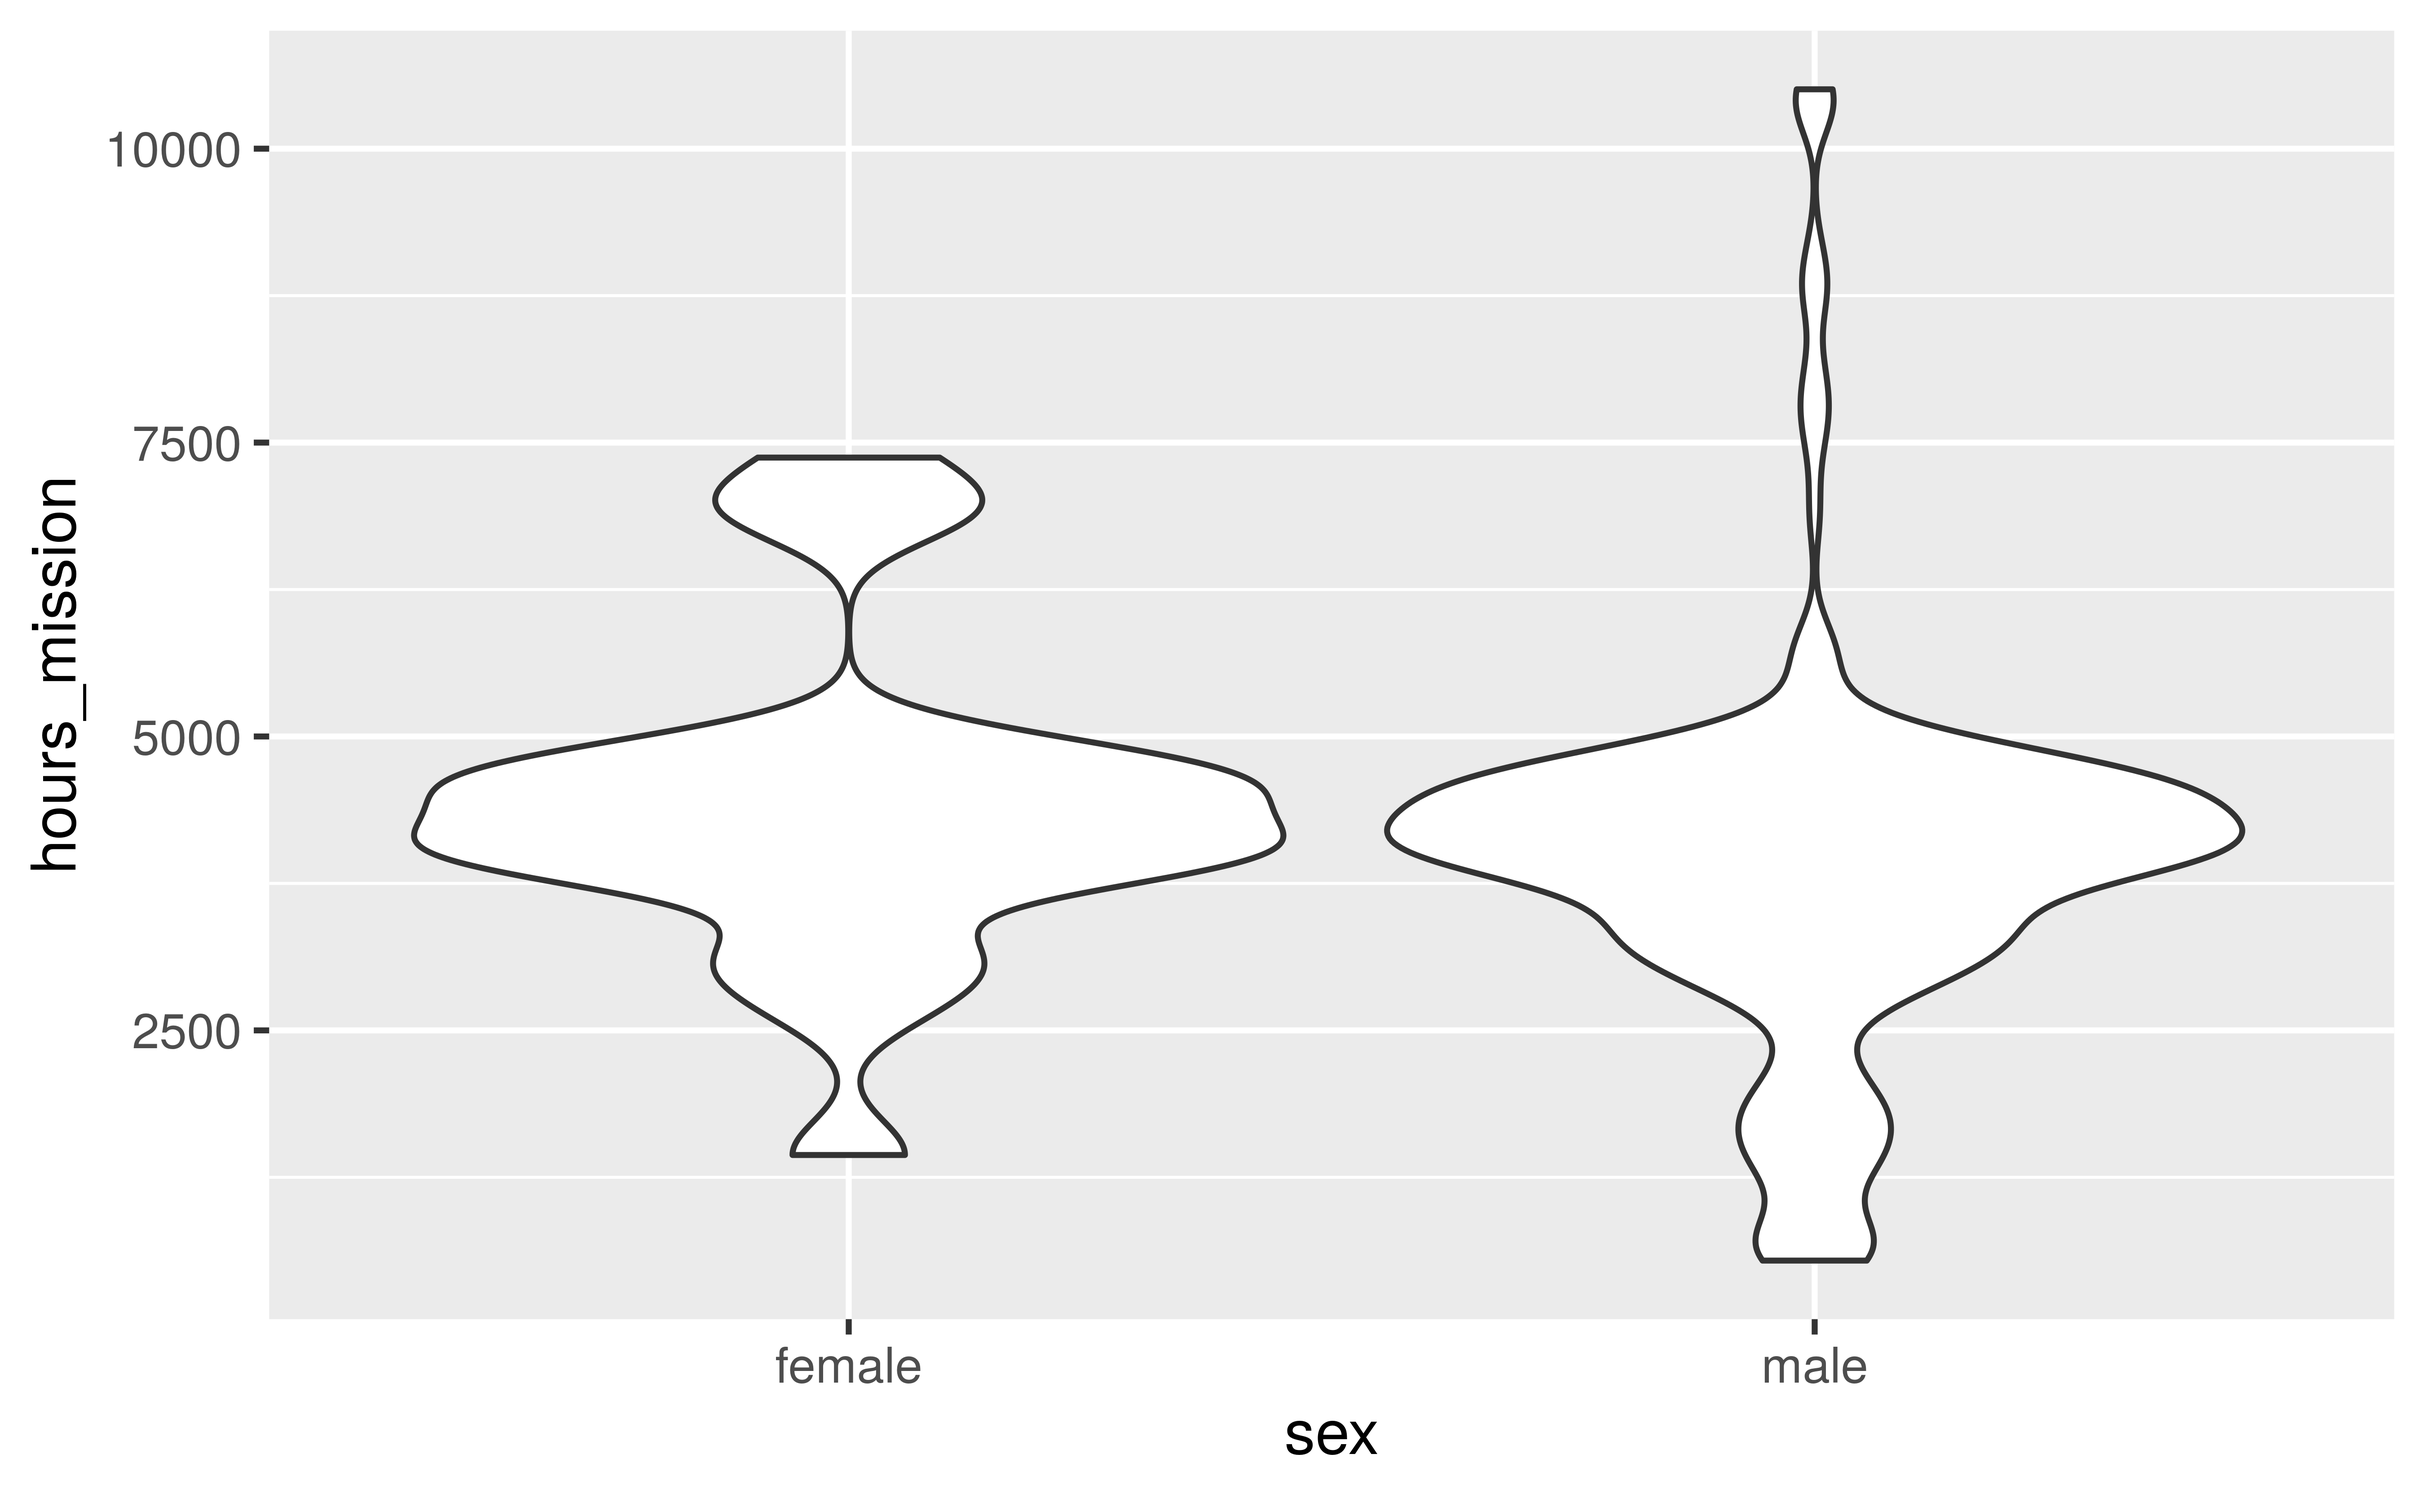
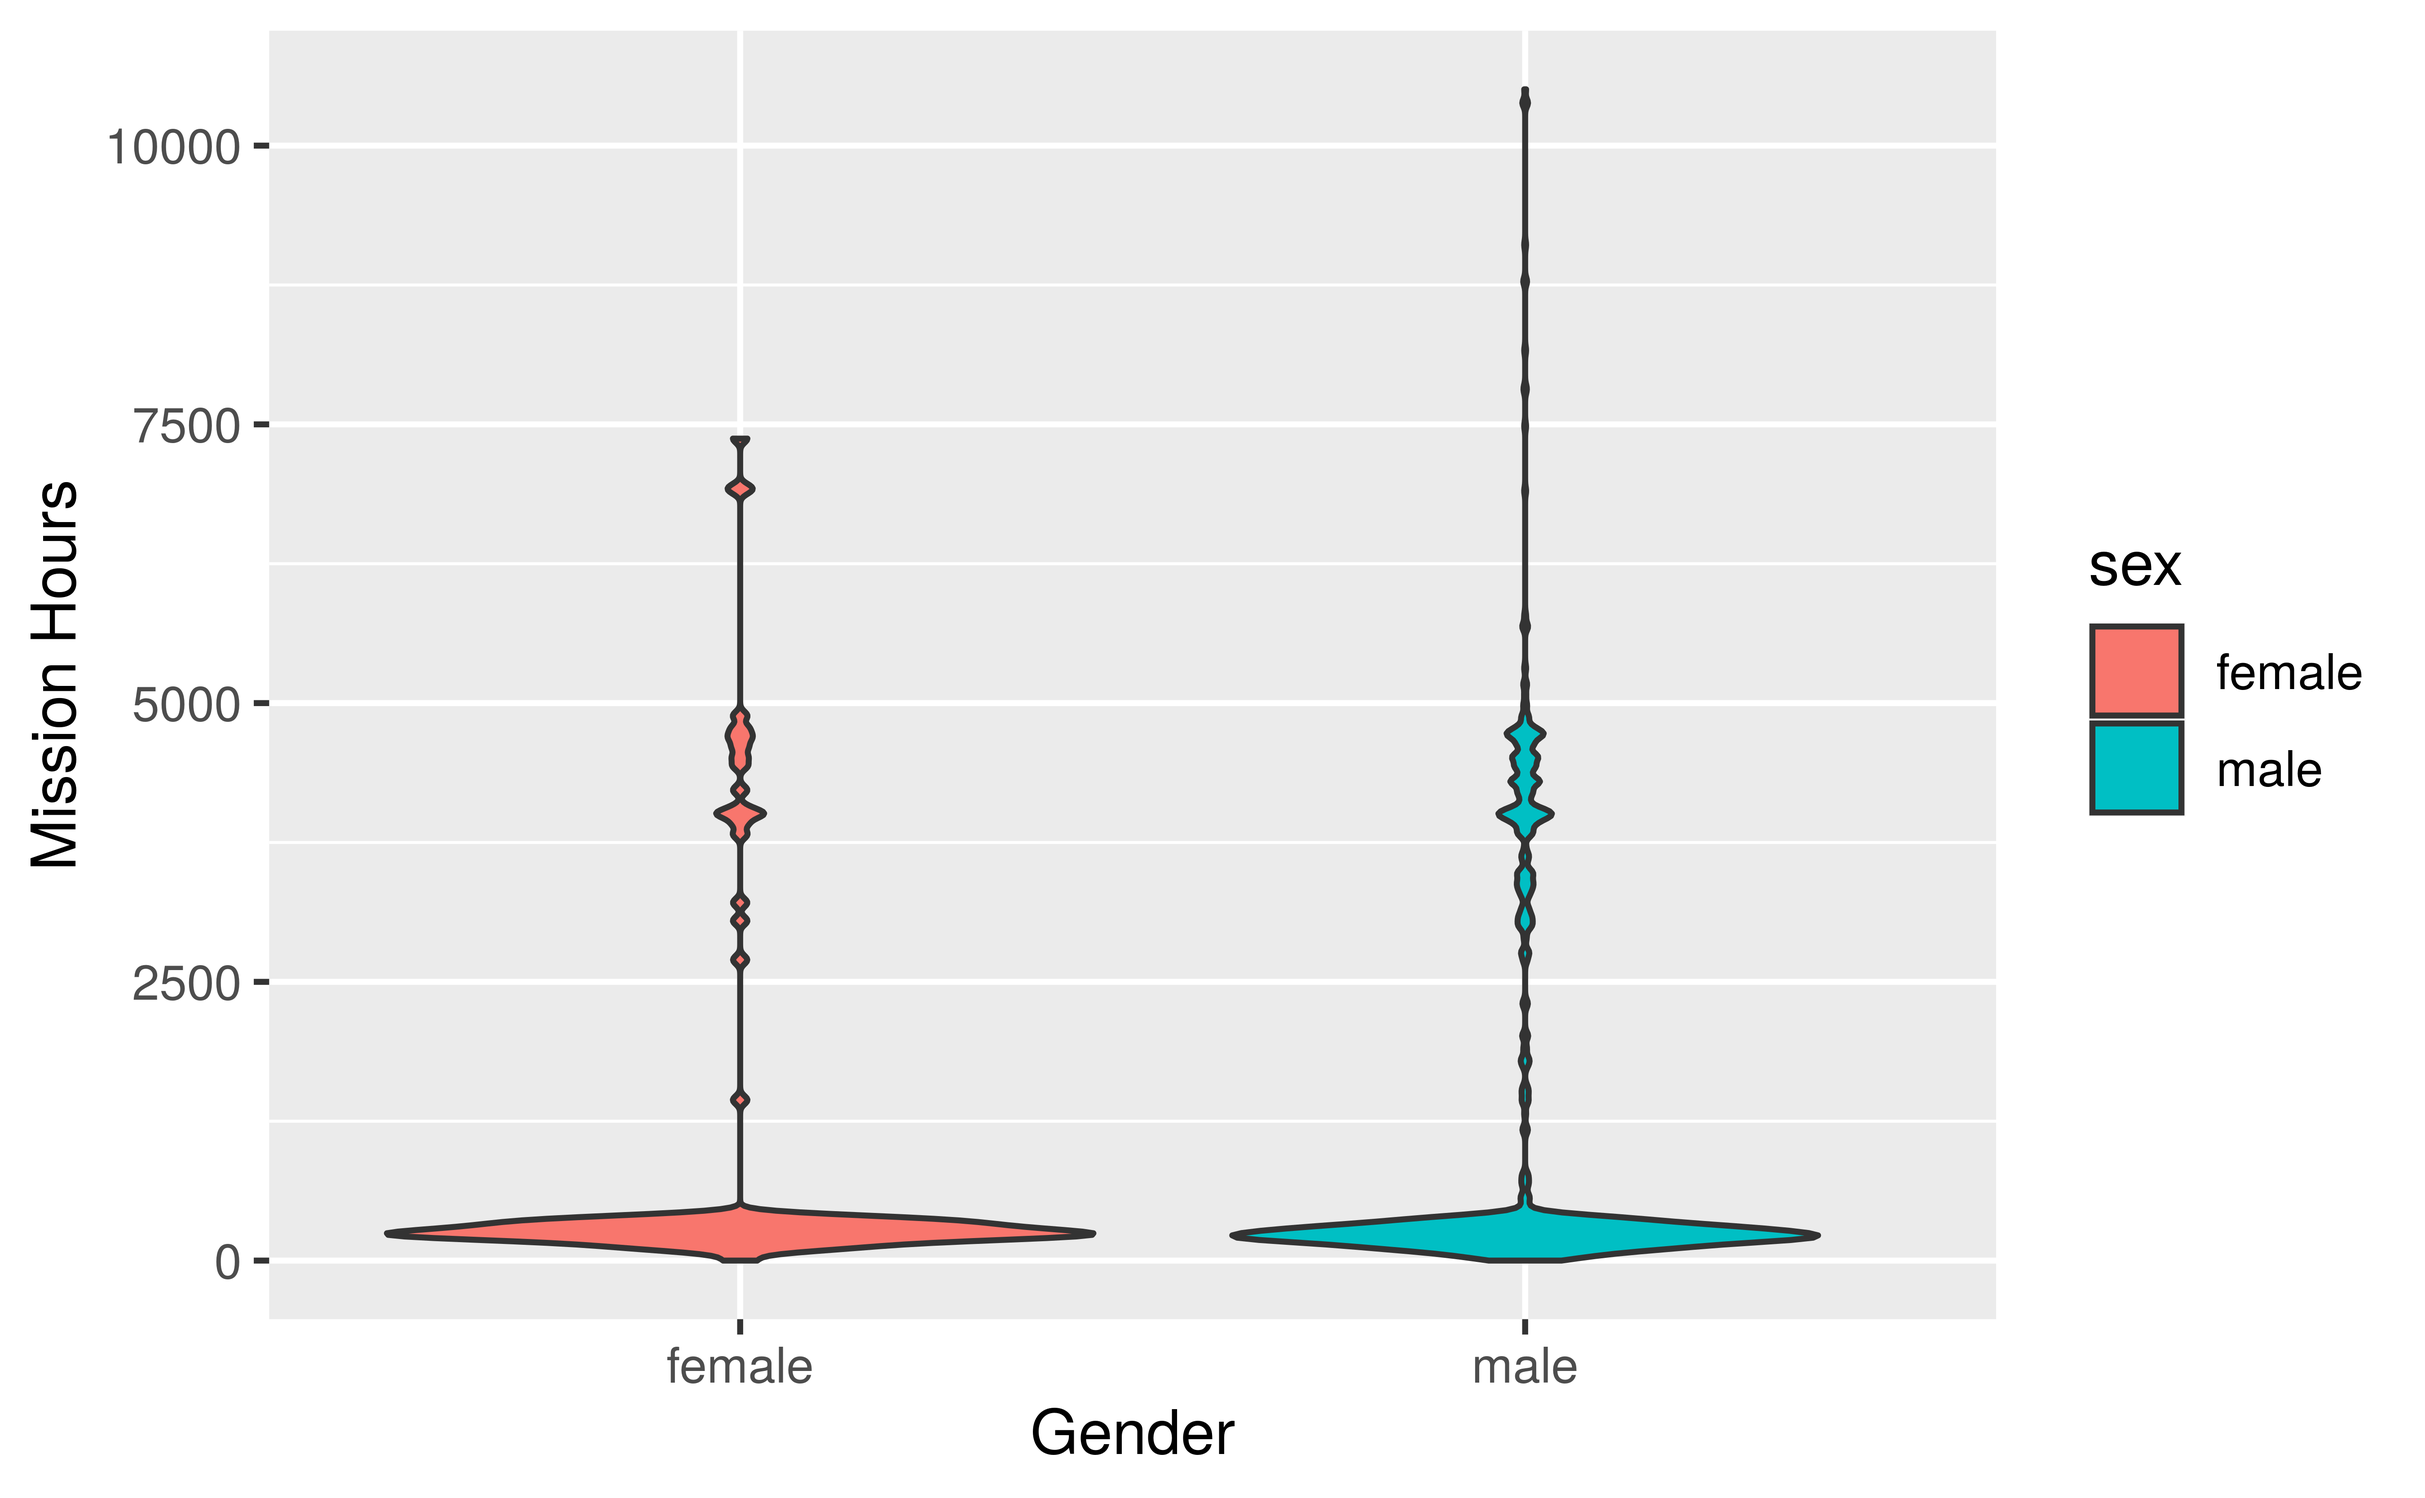
Final touches to Mission stats

diff --git a/presentation/presentation.html b/presentation/presentation.html
@@ -235,13 +235,15 @@ class: inverse, center, middle
 #Mission Hours
 
 .pull-left[
-&lt;img src="presentation_files/figure-html/unnamed-chunk-7-1.png" width="80%" /&gt;
+&lt;img src="presentation_files/figure-html/unnamed-chunk-7-1.png" width="80%" /&gt;&lt;img src="presentation_files/figure-html/unnamed-chunk-7-2.png" width="80%" /&gt;
 ]
 
 .pull-right[
--As shown by the graphs once a women is selected they arent prejudiced in how long there mission are.
+- As shown by the graphs once a women is selected they aren't prejudiced in how long there mission are shown by the similarties in shape.
 
--This implies women are treated the same once employed and are are no more or less likely to get longer or shorter missions than men
+- This implies women are treated the same once employed and are are no more or less likely to get longer or shorter missions than men.
+
+- However for missions over 7500 hours women are not selected, however missions of this length make up only 10 of 1227 missions so appears to be statistically insignificant.
 ]
 ---
 #Recall for more missions
@@ -250,9 +252,9 @@ class: inverse, center, middle
 ]
 
 .pull-right[
--While women are less likely to be selected for mission they are just as likely to be selected again for multiple mission once they have completed one.
+- While women are less likely to be selected for mission they are just as likely to be selected again for multiple mission once they have completed one.
 
--Also the probability of them being selected again as compared to men over more than 2 missions stays showing that they continue to do just as good job throughout all the missions they complete with no tail off.
+- Also the probability of them being selected again as compared to men over more than 2 missions stays showing that they continue to do just as good job throughout all the missions they complete with no tail off.
 ]
 
 .pull-center[
